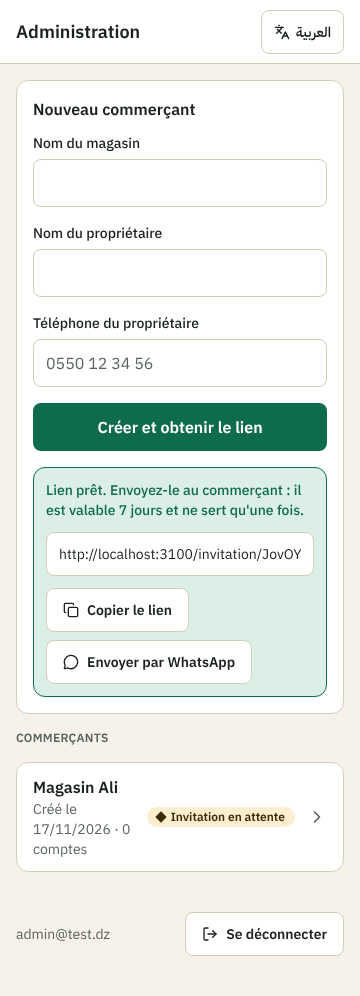
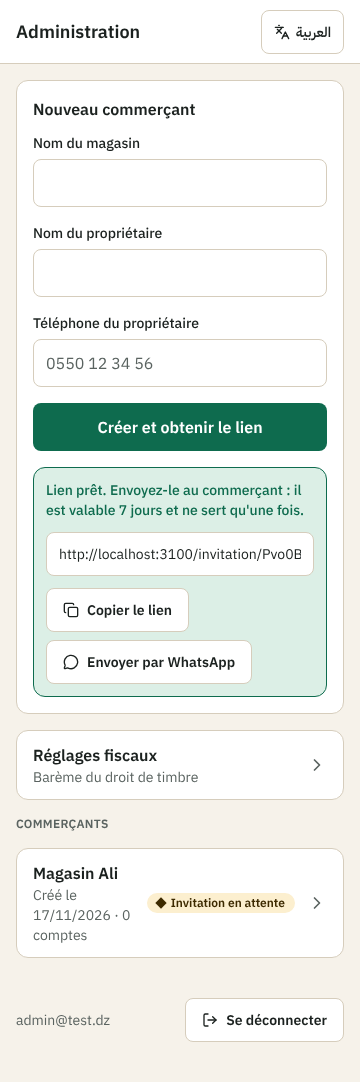
Étape 3 terminée : barème du timbre côté administrateur, bilan, journal, état du projet
Claude-Session: https://claude.ai/code/session_01QNePhtTc6ZoumCimX1MXdd

diff --git a/tests/e2e/parcours.spec.ts b/tests/e2e/parcours.spec.ts
@@ -299,6 +299,32 @@ test("suspendre un commerçant coupe l'accès de toute son équipe", async () =>
   await expect(admin.getByText('Actif', { exact: true })).toBeVisible();
 });
 
+test("l'administrateur saisit le barème du droit de timbre : aucune valeur n'est écrite dans le code", async () => {
+  await admin.goto('/admin');
+  await admin.getByRole('link', { name: /Réglages fiscaux/ }).click();
+  await expect(admin.getByLabel("Exonéré jusqu'à (DA)")).toHaveValue(''); // vide au départ : aucun timbre
+  await admin.getByLabel('DA par tranche de 100 DA').first().fill('abc');
+  await admin.getByRole('button', { name: 'Enregistrer' }).click();
+  await expect(admin.locator('p[role=alert]')).toContainText('Prix invalide');
+  await admin.getByLabel("Exonéré jusqu'à (DA)").fill('300');
+  await admin.getByLabel("Jusqu'à (DA)").first().fill('30000');
+  await admin.getByLabel('DA par tranche de 100 DA').first().fill('1');
+  await admin.getByLabel('DA par tranche de 100 DA').nth(1).fill('1,5');
+  await admin.getByLabel('Montant minimum (DA)').fill('5');
+  await admin.getByRole('button', { name: 'Enregistrer' }).click();
+  await expect(admin.getByText('Modifications enregistrées.')).toBeVisible();
+  await sansDebordement(admin);
+  await admin.reload();
+  await expect(admin.getByLabel("Jusqu'à (DA)").first()).toHaveValue('30000');
+  await expect(admin.getByLabel('DA par tranche de 100 DA').nth(1)).toHaveValue('1,50');
+  // Remis à vide pour la suite des tests.
+  for (const champ of ["Exonéré jusqu'à (DA)", 'Montant minimum (DA)']) await admin.getByLabel(champ).fill('');
+  for (const i of [0, 1]) await admin.getByLabel('DA par tranche de 100 DA').nth(i).fill('');
+  await admin.getByLabel("Jusqu'à (DA)").first().fill('');
+  await admin.getByRole('button', { name: 'Enregistrer' }).click();
+  await expect(admin.getByText('Modifications enregistrées.')).toBeVisible();
+});
+
 test('aucune erreur de script ni violation de la politique de sécurité pendant tout le parcours', async () => {
   expect(problemes).toEqual([]);
 });

diff --git a/docs/etape-3/02-bilan.md b/docs/etape-3/02-bilan.md
@@ -1,0 +1,86 @@
+# Étape 3 — Bilan : caisse, factures et documents
+
+Terminée le 17/11/2026. En attente de la validation du propriétaire.
+
+## Fait
+
+| Fonction | Où |
+|---|---|
+| Caisse : recherche ou scan, panier, total toujours visible, monnaie à rendre, ticket ou facture | `/caisse` |
+| Vente, stock et document écrits ensemble : tout réussit ou rien ne change | `src/lib/documents.ts` (`creerDocument`) |
+| La vente passe même si le stock connu manque ; le produit est noté « Stock à vérifier » | caisse, puis `/stock` |
+| Caisse sans connexion : la vente est gardée dans le téléphone, puis envoyée une seule fois | `src/components/Caisse.tsx` |
+| Clôture de caisse : fond de caisse, comptage avant de voir le montant attendu, écart gardé, rapport figé | `/caisse/cloture` |
+| Factures : mentions du vendeur figées, acheteur, TVA par produit, droit de timbre, total en lettres | `/factures` |
+| Numérotation continue sans trou, une suite par type de document et par année | table `compteurs_documents` |
+| Une facture émise ne se modifie pas et ne se supprime pas : elle s'annule par un avoir (propriétaire seulement) | fiche du document |
+| Devis : numérotation séparée, modifiable tant qu'il est en attente, refusé ou rouvert | `/factures?onglet=devis` |
+| « Transformer en facture » puis une seule question : « Envoi » ou « Vente directe » | fiche du devis |
+| Proforma, bon de commande, bon de livraison, reçu de paiement ; chacun se transforme en suivant sans ressaisie | fiche du document |
+| Liens entre documents, dans les deux sens, ouverts d'un toucher | fiche du document |
+| PDF en français ou en arabe (facture, ticket 80 mm et les autres), partage par WhatsApp ou e-mail | boutons de la fiche |
+| Client enregistré depuis une facture ; téléphone et numéros légaux chiffrés | table `clients` |
+| Réglages du commerçant : TVA (oui ou non, taux par défaut, taux par produit), timbre, texte des documents | `/reglages/facturation` |
+| Barème du droit de timbre saisi par l'administrateur, vide au départ | `/admin/reglages` |
+
+## Règles garanties par la base de données elle-même
+
+- Un numéro n'est pris que si le document est vraiment écrit : aucun trou, même si deux ventes arrivent en même temps ou si l'une échoue.
+- Un document émis est figé (totaux, lignes, date, numéro). Seuls changent l'état d'un devis et la date de paiement d'une facture, une seule fois.
+- Aucun document ne peut être supprimé.
+- Une clôture de caisse ne se modifie plus.
+- Les sept nouvelles tables sont isolées par commerçant (RLS activée et forcée).
+- Le téléphone, l'adresse et les numéros légaux des acheteurs, ainsi que les mentions figées, sont chiffrés.
+
+## Tests automatiques
+
+- **97 tests** unitaires et d'intégration, dont 22 nouveaux : vente en une transaction, prix toujours pris dans la fiche (jamais dans le téléphone), numérotation sans trou sous 12 ventes simultanées, facture figée même en écrivant directement dans la base, avoir, envoi et réservation, chaîne devis → proforma → bon de livraison → facture, clôture, TVA, timbre, montant en lettres en français et en arabe, isolation.
+- **36 parcours de bout en bout**, dont 14 nouveaux sur un écran de 360 px : vente avec scan, facture, vente hors connexion, avoir, devis, envoi, clôture au dinar près, droits de la vendeuse, PDF réel, arabe sombre, isolation entre commerçants, barème du timbre côté administrateur.
+- `npm audit` : aucune faille connue. Captures : `docs/etape-3/captures/`.
+
+## Défauts trouvés et corrigés pendant les tests
+
+- Dans les PDF en arabe, la devise s'affichait du mauvais côté du montant, et une adresse écrite en français voyait son numéro déplacé.
+- À la caisse, le bouton « Encaisser » écrasait le total sur un petit écran.
+
+## Pas fait, ou différent du plan
+
+- **À saisir par vous avant la mise en vente** : le barème du droit de timbre (dans l'administration) et, pour chaque commerçant, son taux de TVA. Rien n'est supposé : tant que c'est vide, il n'y a ni timbre ni TVA.
+- **« Envoi »** : la facture est créée, le stock est réservé et la facture attend son paiement. Le suivi du colis (transporteur, statuts, retour) est l'étape 4.
+- **Avoir** : il annule toute la facture. L'avoir partiel (une seule ligne) est pour plus tard.
+- **Devis expiré** : l'état existe, mais le passage automatique après la date de validité arrivera avec les tâches de fond (étape 6).
+- **Hors connexion** : la caisse doit avoir été ouverte avant la coupure. Une vente gardée est enregistrée au prix de la fiche au moment de l'envoi.
+- **Imprimante à tickets** : le ticket est un PDF de 80 mm de large, à imprimer depuis le téléphone ou l'ordinateur.
+- **Remises** : pas à la caisse. Dans un devis, le prix de chaque ligne se négocie.
+- **Écran Clients** : les clients sont enregistrés, leur écran arrive à l'étape 4.
+- Par rapport au schéma de l'étape 0 : pas de table `ventes` (le document porte déjà le vendeur, le mode et la date : une information à un seul endroit), et les PDF sont produits à la demande au lieu d'être stockés.
+- PDF : produits ici par le Chromium de l'environnement de travail ; l'installation dans Docker est écrite mais non testée (étape 8).
+
+## À essayer par le propriétaire
+
+1. Faire une vente à la caisse avec deux produits, taper le montant reçu, vérifier la monnaie, ouvrir le ticket PDF.
+2. Demander une facture à la caisse ; ouvrir son PDF en français puis en arabe ; le partager par WhatsApp.
+3. Vendre plus que le stock connu ; retrouver le produit dans « Stock à vérifier ».
+4. Couper le Wi-Fi et les données du téléphone, faire une vente, remettre la connexion : la vente doit partir toute seule, une seule fois.
+5. Créer un devis, le modifier, puis « Transformer en facture » : essayer « Vente directe », puis « Envoi » sur un autre devis.
+6. Annuler une facture par un avoir ; vérifier que le stock revient.
+7. Clôturer la caisse le soir : compter, puis lire le rapport.
+8. Dans Réglages › Facturation, activer la TVA avec votre comptable et regarder une facture.
+9. Dans l'administration, saisir le barème du timbre.
+
+## Liens entre les modules construits
+
+```
+   CAISSE ──► TICKET ou FACTURE ◄── « Transformer » ◄── DEVIS ◄── saisie manuelle
+     │              │   │                               PROFORMA ─► BON DE COMMANDE ─► BON DE LIVRAISON
+     │              │   └─► AVOIR (annule) ──► remet le stock, rend les espèces
+     │              └─────► REÇU (paiement d'une facture « Envoi »)
+     ▼
+ JOURNÉE DE CAISSE ──► CLÔTURE (attendu, compté, écart)
+
+ Chaque vente écrit des MOUVEMENTS DE STOCK (sortie, réservation, retour) reliés au document.
+ Stock manquant ──► « STOCK À VÉRIFIER » dans le module Stock.
+ Facture ──► CLIENT (retrouvé par son téléphone).
+```
+
+Depuis un document, on ouvre ceux dont il vient et ceux qu'il a créés. Depuis « Stock à vérifier », on ouvre le produit.

diff --git a/docs/journal/ETAT.md b/docs/journal/ETAT.md
@@ -1,13 +1,14 @@
 # État du projet
 
-Dernière mise à jour : 17/11/2026, après les réponses du propriétaire sur l'étape 2.
+Dernière mise à jour : 17/11/2026, fin de l'étape 3.
 
 ## Où on en est
 
 - **Étape 0 : validée.**
 - **Étape 1 (socle) : terminée.** Le propriétaire a demandé de continuer ; seule remarque : pas de double authentification imposée aux commerçants (elle était déjà facultative). Bilan : `docs/etape-1/02-bilan.md`.
 - **Étape 2 (produits, stock, scan) : validée le 17/11/2026.** Bilan : `docs/etape-2/02-bilan.md`.
-- Prochaine étape : **étape 3, caisse, factures PDF, choix « Envoi » ou « Vente directe »**, avec en plus la clôture de caisse.
+- **Étape 3 (caisse, factures, documents) : terminée et testée, en attente de la validation du propriétaire.** Bilan : `docs/etape-3/02-bilan.md`.
+- Prochaine étape : **étape 4, commandes à livrer et suivi des colis** (avec l'écran Clients).
 - Branche de travail : `claude/adoring-ptolemy-sn6zzz`. `main` est en retard : il s'arrête à la fin de l'étape 1 (le propriétaire voulait `main` identique ; à refaire quand il le confirme).
 
 ## Façon de travailler (décidée par le propriétaire le 16/11/2026)
@@ -17,9 +18,9 @@ Dernière mise à jour : 17/11/2026, après les réponses du propriétaire sur l
 
 ## Prochaine action
 
-1. Étape 3 en cours.
-2. Étape 3 : recherche (caisse, ticket, facture, mentions du décret 05-468, droit de timbre, TVA, PDF en arabe par Chromium), liste, puis code.
-3. À l'étape 3 : brancher `Scanner` dans la caisse, écrire la vente avec `ajouterMouvement` (type `vente`), laisser passer une vente quand le stock connu manque et la signaler (décision du 17/11/2026), ajouter le taux de TVA par produit, remplacer la page d'attente `src/app/(app)/[module]/page.tsx` pour `caisse` et `factures`.
+1. Obtenir la validation de l'étape 3.
+2. Étape 4 : recherche (transporteurs algériens, frais par wilaya, point relais, statuts d'un colis, liste officielle des 69 wilayas et des communes), liste, puis code.
+3. À l'étape 4 : construire la commande à partir d'une facture « Envoi » (stock déjà réservé, voir le journal), le colis, les tentatives d'appel, l'alerte sur un téléphone qui a déjà des retours, l'écran Clients ; remplacer la page d'attente `src/app/(app)/[module]/page.tsx` pour `commandes` et `clients`.
 
 ## Pour reprendre le travail dans un nouveau conteneur
 
@@ -35,7 +36,8 @@ npm run verifier                     # tout doit passer avant de continuer
 
 ## Questions ouvertes pour le propriétaire
 
-- Aucune. Décisions du 17/11/2026 (détail dans le journal) : mot de passe du commerçant à 8 caractères ; le commerçant choisit pour chaque vendeur s'il peut gérer les produits ; à la caisse, une vente passe même si le stock connu est à zéro, et elle est signalée.
+1. **Barème du droit de timbre et taux de TVA** : à faire confirmer par un comptable, puis à saisir (timbre : Administration › Réglages fiscaux ; TVA : Réglages › Facturation de chaque commerçant). Tant que c'est vide, aucune taxe n'est ajoutée.
+2. **Avoir partiel** (annuler une seule ligne d'une facture) : utile tout de suite, ou plus tard ?
 
 ## Points à vérifier plus tard (sources officielles non joignables)
 
@@ -45,6 +47,8 @@ npm run verifier                     # tout doit passer avant de continuer
 - Paramètres Argon2id sur la page OWASP ; numérotation exacte des wilayas 59 à 69 et communes.
 - Texte exact de l'article 10 du Code de commerce (inventaire annuel) ; état actuel de l'obligation du code-barres ; arrêté sur l'affichage des prix.
 - Essai du scan sur de vrais téléphones (Android et iPhone), en HTTPS.
+- Mentions complètes de la facture (cachet, signature, capital social), règles de l'avoir, timbre sur les tickets de caisse : à confirmer avec un comptable.
+- Production des PDF dans l'image Docker (Chromium installé par le Dockerfile, non testé).
 
 ## Où trouver quoi
 
@@ -55,5 +59,7 @@ npm run verifier                     # tout doit passer avant de continuer
 | `docs/etape-1/` | Recherche et bilan du socle |
 | `docs/etape-2/01-recherche-stock.md` | Recherche et liste des fonctions de l'étape 2 |
 | `docs/etape-2/02-bilan.md` | Bilan de l'étape 2 : fait, pas fait, à essayer, liens |
+| `docs/etape-3/01-recherche-caisse-factures.md` | Recherche et liste des fonctions de l'étape 3 |
+| `docs/etape-3/02-bilan.md` | Bilan de l'étape 3 : fait, pas fait, à essayer, liens |
 | `README.md` | Lancer, vérifier, organisation du code |
 | `docs/journal/JOURNAL.md` | Historique daté |

diff --git a/docs/journal/JOURNAL.md b/docs/journal/JOURNAL.md
@@ -2,6 +2,27 @@
 
 Entrées les plus récentes en haut. Une entrée par action importante.
 
+## 17/11/2026 — Étape 3 (caisse, factures, documents) terminée
+
+- Recherche : `docs/etape-3/01-recherche-caisse-factures.md`. Bilan : `docs/etape-3/02-bilan.md`.
+- Vérifications (`npm run verifier`) : 97 tests unitaires et d'intégration, 36 parcours de bout en bout, `npm audit` sans faille.
+- Choix techniques à connaître pour la suite :
+  - Migration `0005_documents` : `clients`, `sessions_caisse`, `compteurs_documents`, `documents`, `lignes_document`, `liens_documents`, `ecarts_stock` ; colonnes `commercants.reglages_documents` et `produits.taux_tva`.
+  - **Tout document passe par `creerDocument` (`src/lib/documents.ts`)** : numéro, lignes, stock et liens dans la même transaction. `vendreEnCaisse`, `transformer`, `creerAvoir`, `encaisserFacture` s'appuient dessus.
+  - **Prix de vente = prix TTC.** `calculerLigne` (`src/lib/fiscal.ts`) en déduit le hors taxe. Montants négatifs pour un avoir.
+  - Aucune règle fiscale dans le code : TVA dans `commercants.reglages_documents` (schéma Zod `schemaReglagesDocuments`), barème du timbre dans `reglages_plateforme` (clé `timbre`, vide au départ), lu par `reglageBrut`.
+  - Numérotation : `prochainNumero` fait un `INSERT … ON CONFLICT DO UPDATE` sur le compteur, dans la transaction du document. Année prise à l'heure d'Alger.
+  - Documents figés : déclencheurs `document_fige` et `ligne_document_figee`. Les lignes ne s'ajoutent que dans la transaction qui crée le document (colonne `transaction_creation`).
+  - Stock : une vente sort `min(quantité, stock libre)` et écrit le manque dans `ecarts_stock` (décision du 17/11). Un « Envoi » fait une `reservation` et refuse s'il n'y a pas assez de stock libre. `stock_sorti` évite de sortir deux fois le stock dans une chaîne (bon de livraison puis facture).
+  - **Pour l'étape 4** : une facture `mode_vente = 'envoi'` porte les réservations (mouvements liés par `document_id`). L'expédition devra faire `liberation` puis `vente` ; la livraison, l'encaissement (`encaisserFacture`) ; le retour, un avoir ou un mouvement `retour`.
+  - Caisse : toute somme encaissée en espèces porte `session_caisse_id` (caisse ouverte d'elle-même à la première vente). `resumeCaisse` additionne les documents de la journée.
+  - PDF : `src/lib/pdf.ts` écrit une page HTML (textes de `messages/*.json`, espace `pdf`) et lance le « headless shell » de Chromium en ligne de commande. Le Chromium complet de l'environnement se bloque avec `--print-to-pdf` ; le headless shell fonctionne. Variable `CHEMIN_CHROMIUM` pour forcer un chemin.
+  - Dans un PDF arabe : les montants gardent le sens de la langue (classe `m`), les textes libres sont isolés par `<bdi>`.
+  - Caisse hors connexion : file dans `localStorage` (`hanout.ventes.<commerçant>`), chaque vente a sa clé d'idempotence ; elle n'est retirée de la file qu'après une réponse du serveur.
+  - Piège Tailwind rencontré : ajouter `w-auto` après une classe qui contient `w-full` ne la remplace pas. Écrire les classes complètes.
+  - Droits : vendre, facturer, clôturer = `vendre` ; annuler par un avoir = `stock.corriger` (propriétaire) ; réglages de facturation = `reglages`.
+- Reste à faire signalé dans le bilan : avoir partiel, expiration automatique des devis, écran Clients, suivi des colis (étape 4).
+
 ## 17/11/2026 — Étape 2 validée ; droit « gérer les produits » choisi par le commerçant
 
 - Le propriétaire a répondu « oui » pour l'étape 3 : **étape 2 validée**.
